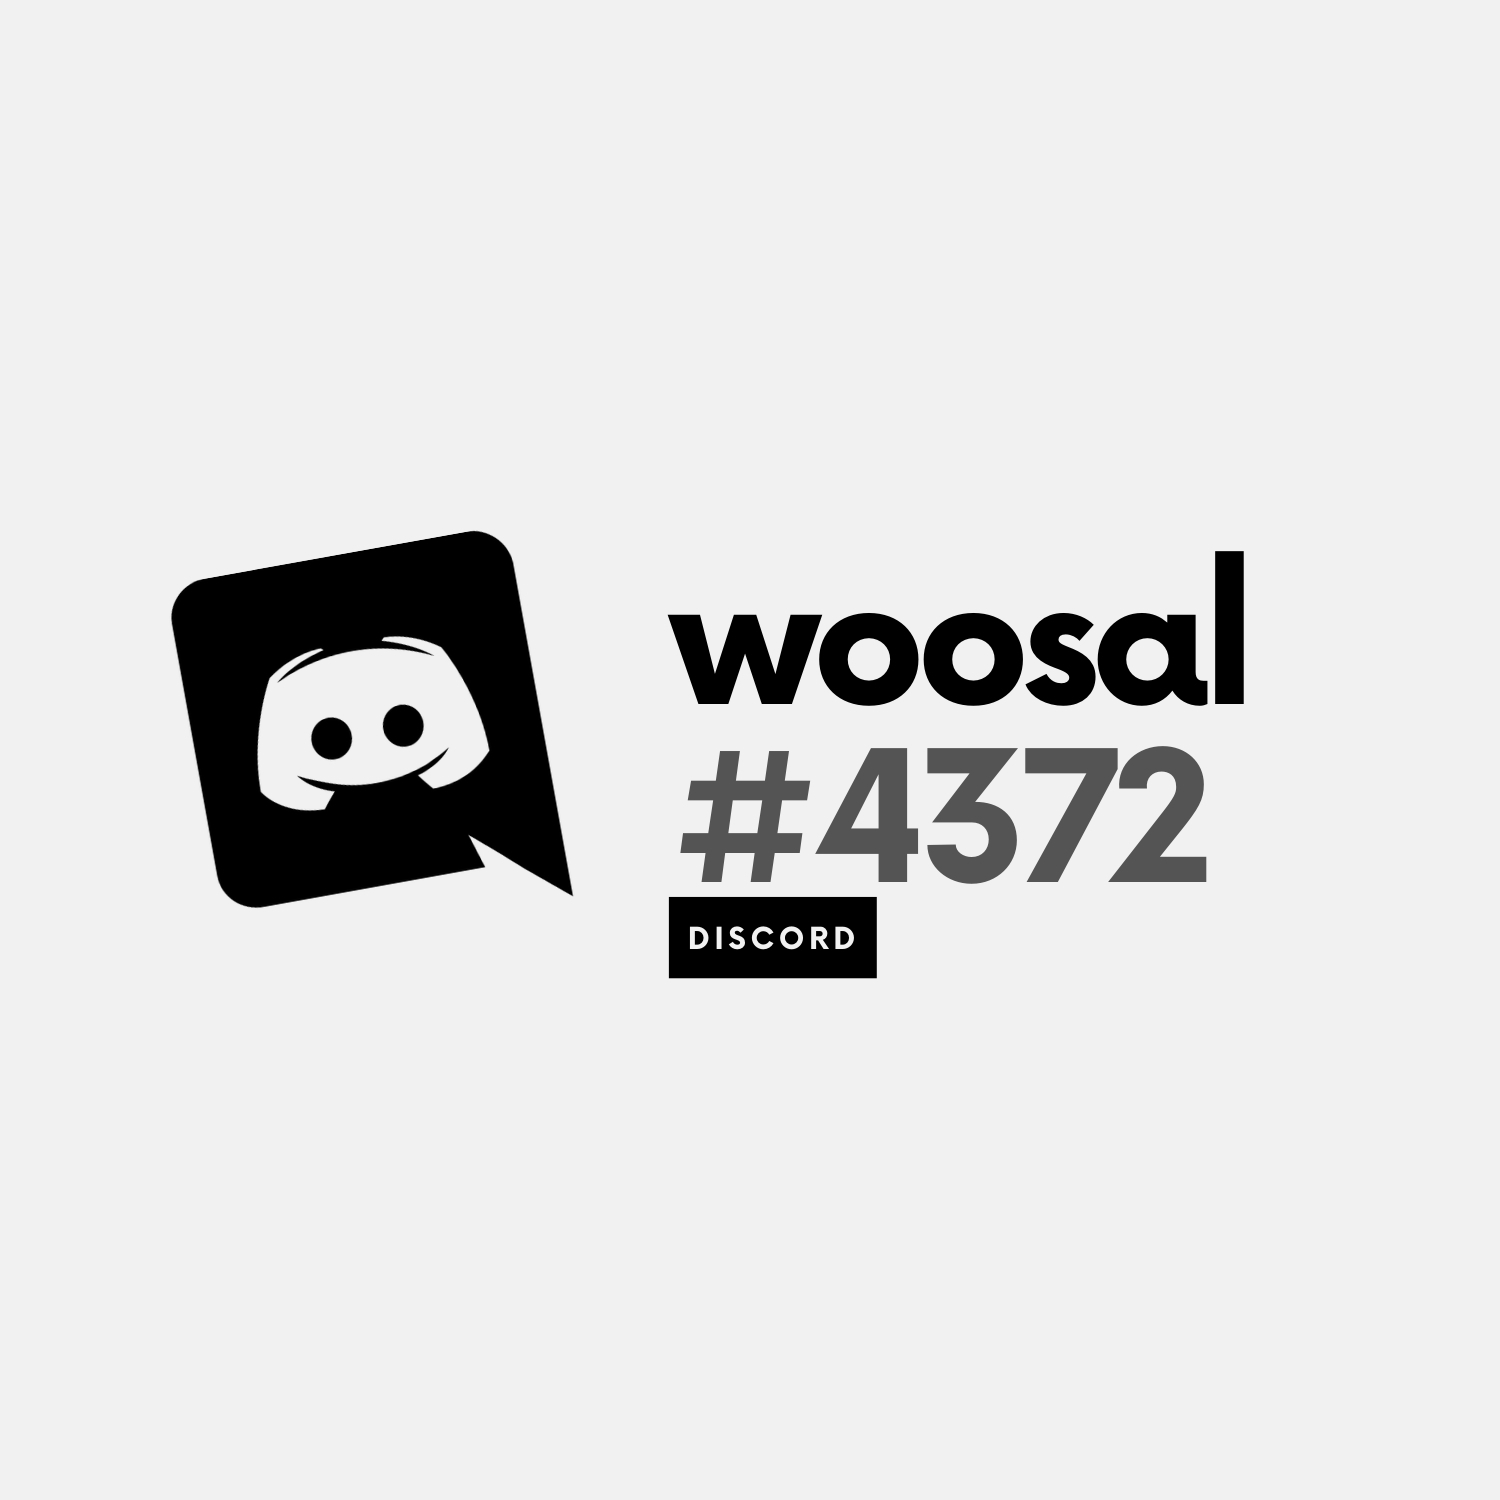
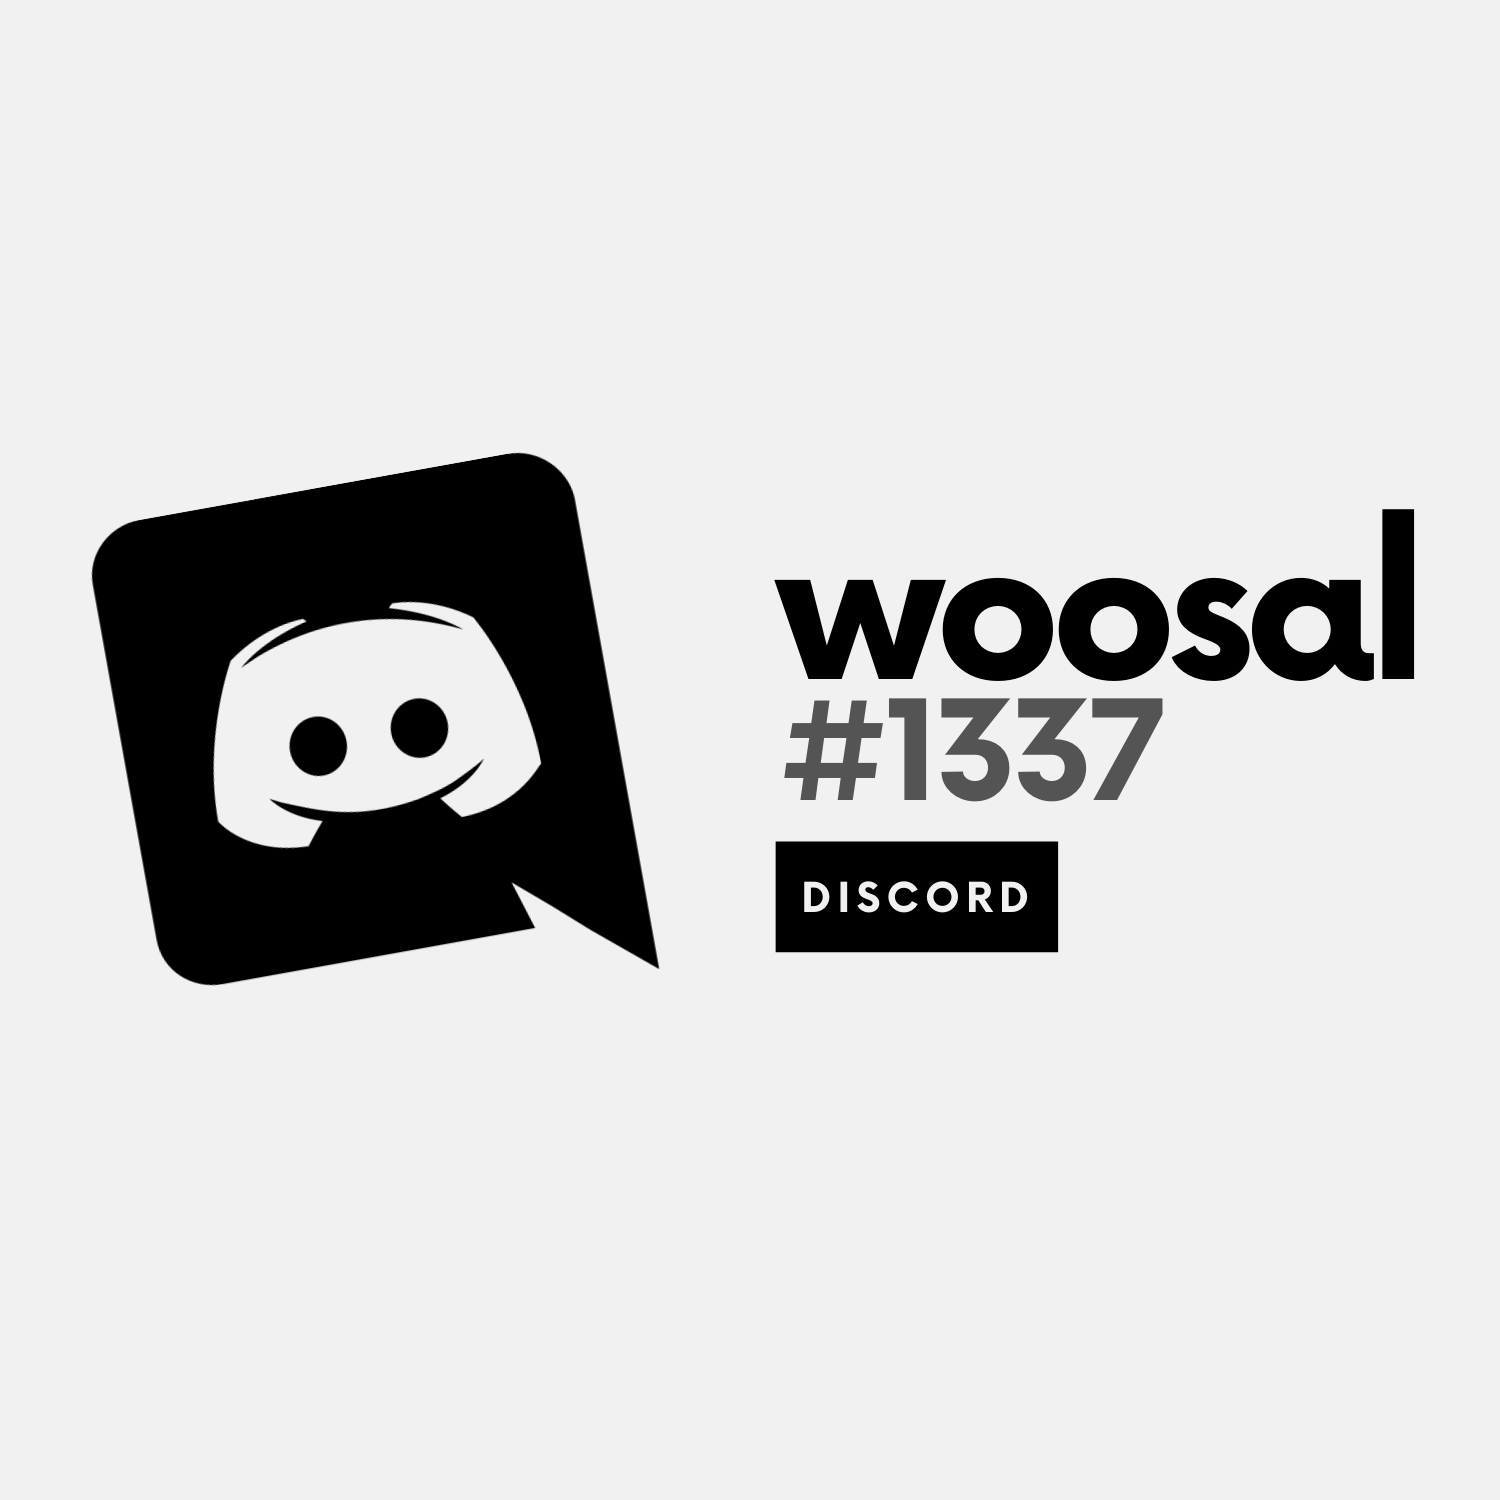
Discord Change

Changed region(s): [[0.0613, 0.276, 0.9507, 0.6747]]

diff --git a/index.html b/index.html
@@ -397,7 +397,7 @@
 								<a class="full_link" a href="#"></a>
 							</div>
 							<div class="details">
-								<h3 class="title"><a href="#">Discord: woosal#4372</a></h3>
+								<h3 class="title"><a href="#">Discord: woosal#1337</a></h3>
 							</div>
 						</div>
 					</li>
